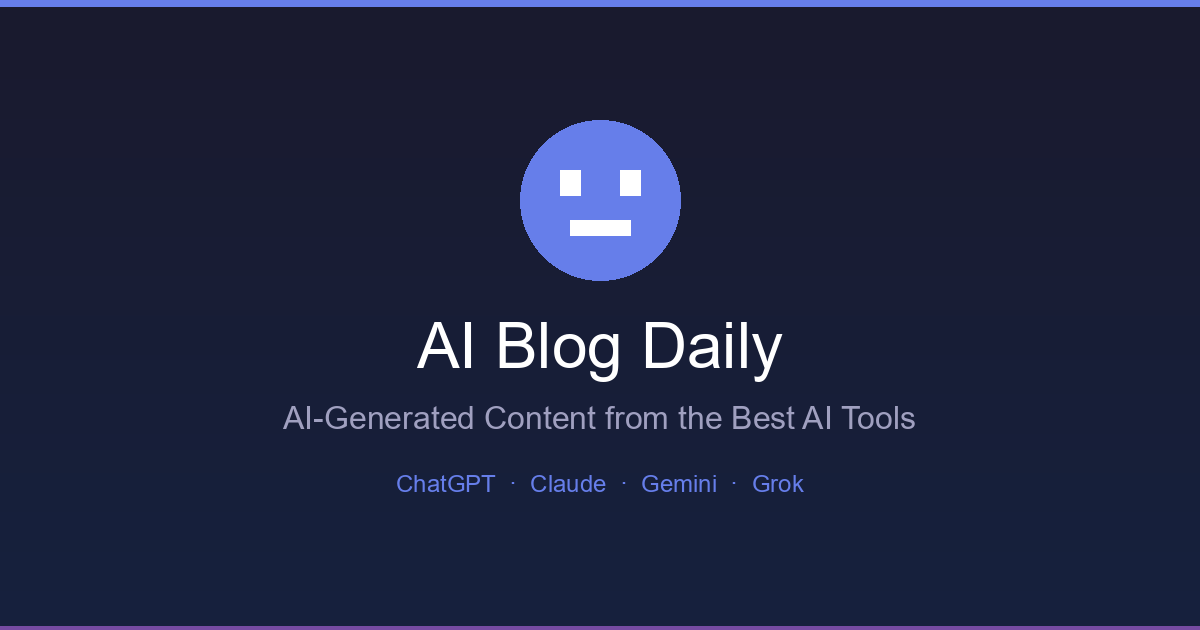
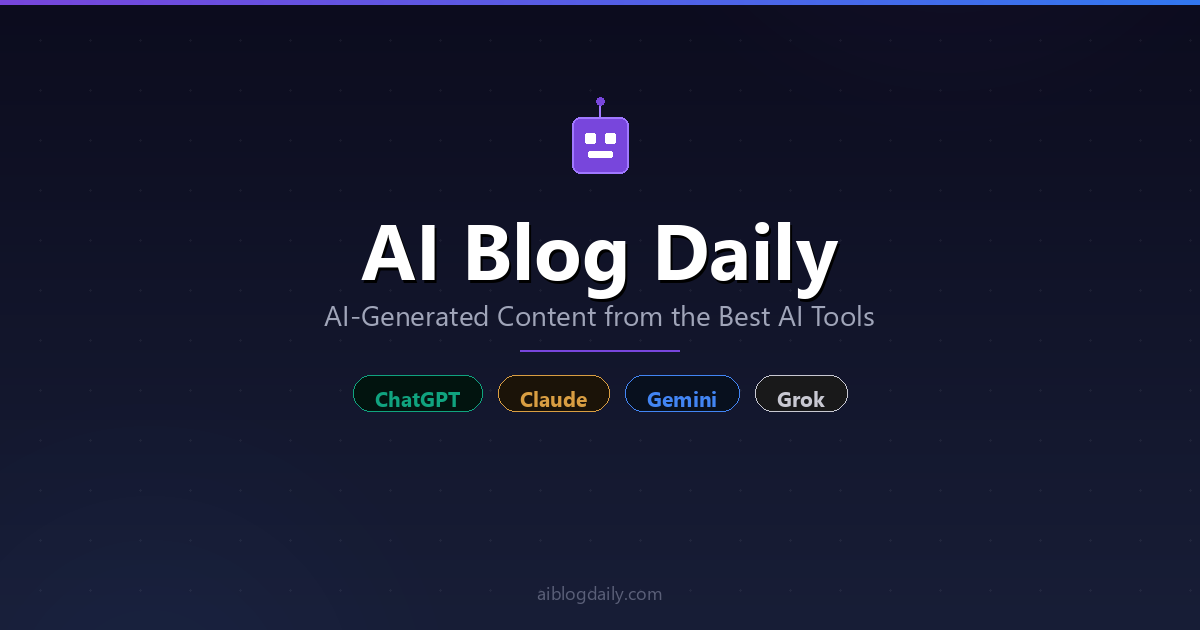
changed generate_og_image

diff --git a/generate_og_image.py b/generate_og_image.py
@@ -1,0 +1,167 @@
+"""Generate a professional OG image for AI Blog Daily."""
+from PIL import Image, ImageDraw, ImageFont
+
+WIDTH, HEIGHT = 1200, 630
+
+img = Image.new("RGB", (WIDTH, HEIGHT))
+draw = ImageDraw.Draw(img)
+
+# Dark gradient background
+for y in range(HEIGHT):
+    r = int(12 + (y / HEIGHT) * 12)
+    g = int(12 + (y / HEIGHT) * 18)
+    b = int(30 + (y / HEIGHT) * 25)
+    draw.line([(0, y), (WIDTH, y)], fill=(r, g, b))
+
+# Convert to RGBA for transparency support
+img = img.convert("RGBA")
+
+# Subtle dot grid pattern
+grid = Image.new("RGBA", (WIDTH, HEIGHT), (0, 0, 0, 0))
+grid_draw = ImageDraw.Draw(grid)
+for x in range(40, WIDTH, 50):
+    for y in range(40, HEIGHT, 50):
+        grid_draw.ellipse([x - 1, y - 1, x + 1, y + 1], fill=(255, 255, 255, 12))
+img = Image.alpha_composite(img, grid)
+
+# Accent glow circles (soft, decorative)
+overlay = Image.new("RGBA", (WIDTH, HEIGHT), (0, 0, 0, 0))
+overlay_draw = ImageDraw.Draw(overlay)
+
+# Top-right glow - purple
+for radius in range(350, 0, -2):
+    alpha = int(18 * (1 - radius / 350))
+    overlay_draw.ellipse(
+        [950 - radius, -200 - radius, 950 + radius, -200 + radius],
+        fill=(120, 70, 220, alpha),
+    )
+
+# Bottom-left glow - blue
+for radius in range(320, 0, -2):
+    alpha = int(14 * (1 - radius / 320))
+    overlay_draw.ellipse(
+        [150 - radius, 700 - radius, 150 + radius, 700 + radius],
+        fill=(50, 120, 240, alpha),
+    )
+
+img = Image.alpha_composite(img, overlay)
+draw = ImageDraw.Draw(img)
+
+# Top accent line with gradient effect
+for x in range(WIDTH):
+    # Purple to blue gradient
+    t = x / WIDTH
+    r = int(120 * (1 - t) + 50 * t)
+    g = int(70 * (1 - t) + 120 * t)
+    b = int(220 * (1 - t) + 240 * t)
+    draw.line([(x, 0), (x, 4)], fill=(r, g, b, 255))
+
+# Load fonts
+try:
+    font_title = ImageFont.truetype("segoeuib.ttf", 78)
+    font_subtitle = ImageFont.truetype("segoeui.ttf", 28)
+    font_tags = ImageFont.truetype("segoeuib.ttf", 21)
+    font_url = ImageFont.truetype("segoeui.ttf", 18)
+except:
+    try:
+        font_title = ImageFont.truetype("arialbd.ttf", 78)
+        font_subtitle = ImageFont.truetype("arial.ttf", 28)
+        font_tags = ImageFont.truetype("arialbd.ttf", 21)
+        font_url = ImageFont.truetype("arial.ttf", 18)
+    except:
+        font_title = ImageFont.load_default()
+        font_subtitle = font_title
+        font_tags = font_title
+        font_url = font_title
+
+# Small "robot" icon above title - simple geometric bot face
+icon_cx, icon_cy = WIDTH // 2, 145
+# Bot head (rounded rect)
+draw.rounded_rectangle(
+    [icon_cx - 28, icon_cy - 28, icon_cx + 28, icon_cy + 28],
+    radius=8,
+    fill=(120, 70, 220, 180),
+    outline=(160, 120, 255, 200),
+    width=2,
+)
+# Bot eyes
+draw.rounded_rectangle([icon_cx - 15, icon_cy - 12, icon_cx - 5, icon_cy - 2], radius=2, fill=(255, 255, 255, 220))
+draw.rounded_rectangle([icon_cx + 5, icon_cy - 12, icon_cx + 15, icon_cy - 2], radius=2, fill=(255, 255, 255, 220))
+# Bot mouth
+draw.rounded_rectangle([icon_cx - 12, icon_cy + 6, icon_cx + 12, icon_cy + 12], radius=2, fill=(255, 255, 255, 160))
+# Bot antenna
+draw.line([(icon_cx, icon_cy - 28), (icon_cx, icon_cy - 42)], fill=(160, 120, 255, 200), width=2)
+draw.ellipse([icon_cx - 4, icon_cy - 48, icon_cx + 4, icon_cy - 40], fill=(120, 70, 220, 220))
+
+# Title
+title = "AI Blog Daily"
+bbox = draw.textbbox((0, 0), title, font=font_title)
+tw = bbox[2] - bbox[0]
+x_title = (WIDTH - tw) // 2
+y_title = 195
+
+draw.text((x_title + 2, y_title + 3), title, fill=(0, 0, 0, 120), font=font_title)
+draw.text((x_title, y_title), title, fill=(255, 255, 255, 255), font=font_title)
+
+# Subtitle
+subtitle = "AI-Generated Content from the Best AI Tools"
+bbox = draw.textbbox((0, 0), subtitle, font=font_subtitle)
+sw = bbox[2] - bbox[0]
+x_sub = (WIDTH - sw) // 2
+y_sub = y_title + 100
+draw.text((x_sub, y_sub), subtitle, fill=(160, 165, 185, 255), font=font_subtitle)
+
+# Decorative accent line
+line_y = y_sub + 55
+# Gradient line
+for x in range(WIDTH // 2 - 80, WIDTH // 2 + 80):
+    t = abs(x - WIDTH // 2) / 80
+    alpha = int(255 * (1 - t))
+    draw.point((x, line_y), fill=(120, 70, 220, alpha))
+    draw.point((x, line_y + 1), fill=(120, 70, 220, alpha))
+
+# AI tool tags as pills
+tools = ["ChatGPT", "Claude", "Gemini", "Grok"]
+colors = [(16, 163, 127), (217, 158, 66), (66, 133, 244), (200, 200, 210)]
+pill_y = line_y + 25
+pill_data = []
+
+for i, tool in enumerate(tools):
+    bbox = draw.textbbox((0, 0), tool, font=font_tags)
+    text_w = bbox[2] - bbox[0]
+    text_h = bbox[3] - bbox[1]
+    pill_w = text_w + 44
+    pill_data.append((tool, pill_w, text_w, text_h, colors[i]))
+
+spacing = 16
+total_with_spacing = sum(p[1] for p in pill_data) + spacing * (len(tools) - 1)
+start_x = (WIDTH - total_with_spacing) // 2
+
+for tool, pill_w, text_w, text_h, color in pill_data:
+    pill_h = 36
+    # Pill background
+    bg_color = (color[0] // 8, color[1] // 8, color[2] // 8, 180)
+    draw.rounded_rectangle(
+        [start_x, pill_y, start_x + pill_w, pill_y + pill_h],
+        radius=18,
+        fill=bg_color,
+        outline=(*color, 80),
+        width=1,
+    )
+    # Centered text
+    tx = start_x + (pill_w - text_w) // 2
+    ty = pill_y + (pill_h - text_h) // 2 - 1
+    draw.text((tx, ty), tool, fill=(*color, 255), font=font_tags)
+    start_x += pill_w + spacing
+
+# URL at bottom
+url_text = "aiblogdaily.com"
+bbox = draw.textbbox((0, 0), url_text, font=font_url)
+uw = bbox[2] - bbox[0]
+draw.text(((WIDTH - uw) // 2, HEIGHT - 50), url_text, fill=(90, 95, 120, 200), font=font_url)
+
+# Save as RGB PNG
+img = img.convert("RGB")
+output_path = "static/img/og-default.png"
+img.save(output_path, "PNG")
+print(f"OG image saved to {output_path}")
